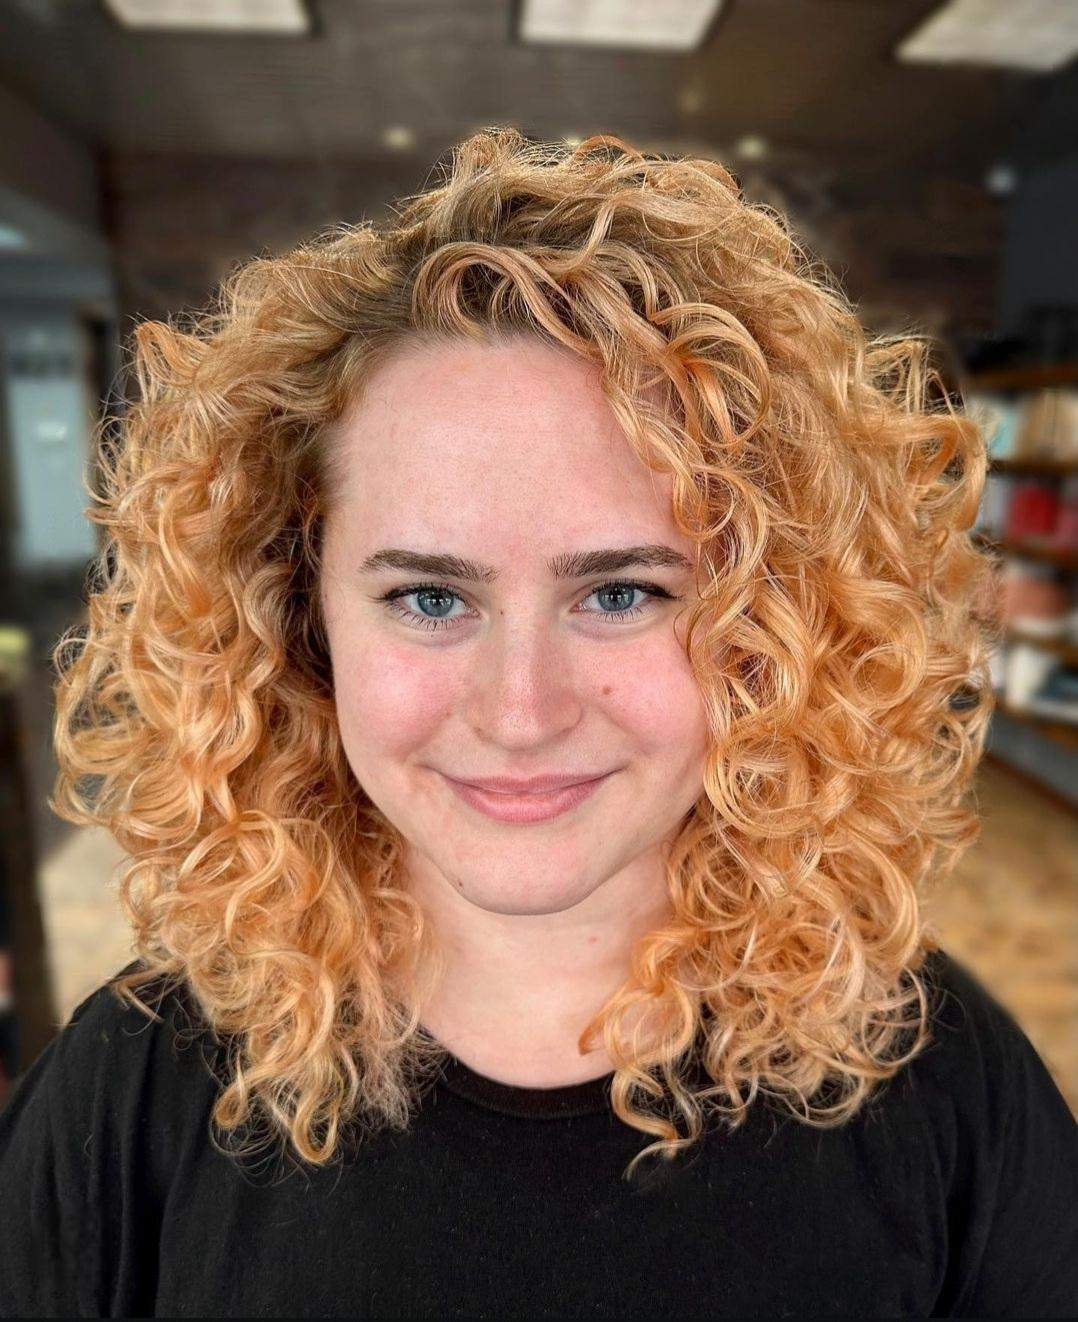
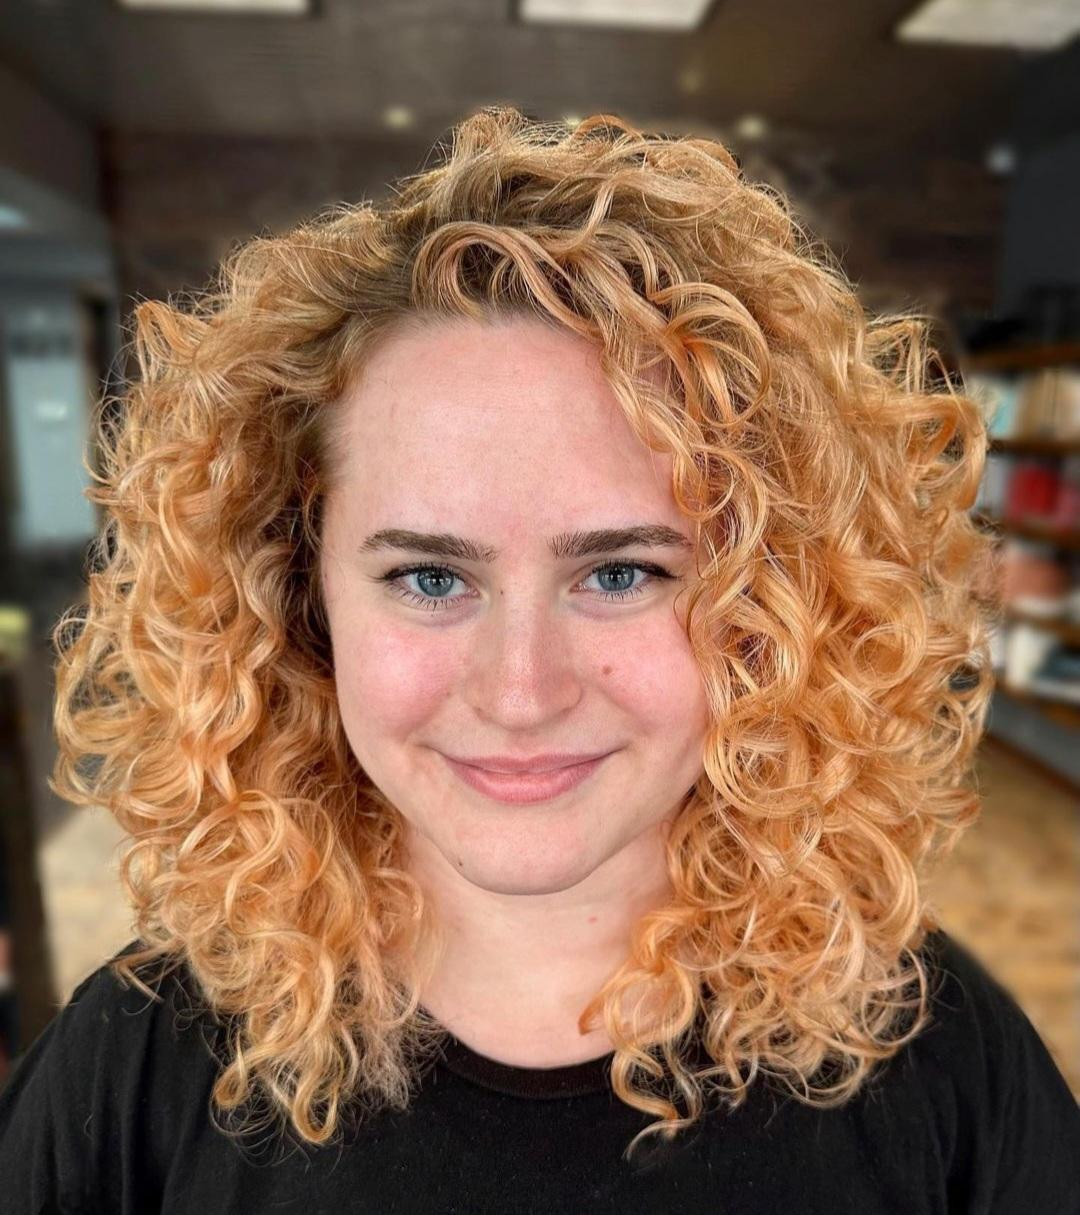
Added new picture

diff --git a/src/pages/services/styling.tsx b/src/pages/services/styling.tsx
@@ -11,7 +11,7 @@ export function Styling() {
                     <div className='treatments-section w-100 mt-4 text-center'>
                         <h2 className='mb-2'>Styling</h2>
                         <div className='d-flex justify-content-center'>
-                            <DivImage height='14rem' width='14rem' img='/images/ginger.png' smallClass='styling-image mx-2' />
+                            <DivImage height='14rem' width='14rem' img='/images/freckle.png' smallClass='styling-image mx-2' />
                             <DivImage height='14rem' width='14rem' img='/images/ford.png' smallClass='styling-image mx-2' />
                             <DivImage height='14rem' width='14rem' img='/images/fro.png' smallClass='styling-image mx-2' />
                         </div>
@@ -48,7 +48,7 @@ export function Styling() {
                 <div className='treatments-section mw-100 mx-5 mt-5 text-center'>
                     <h2 className='mb-2'>Styling</h2>
                     <div className='d-flex justify-content-center'>
-                        <DivImage height='14rem' width='14rem' img='/images/ginger.png' smallClass='treatment-image mx-5' />
+                        <DivImage height='14rem' width='14rem' img='/images/freckle.png' smallClass='treatment-image mx-5' />
                         <DivImage height='14rem' width='14rem' img='/images/ford.png' smallClass='treatment-image mx-5' />
                         <DivImage height='14rem' width='14rem' img='/images/fro.png' smallClass='treatment-image mx-5' />
                     </div>
